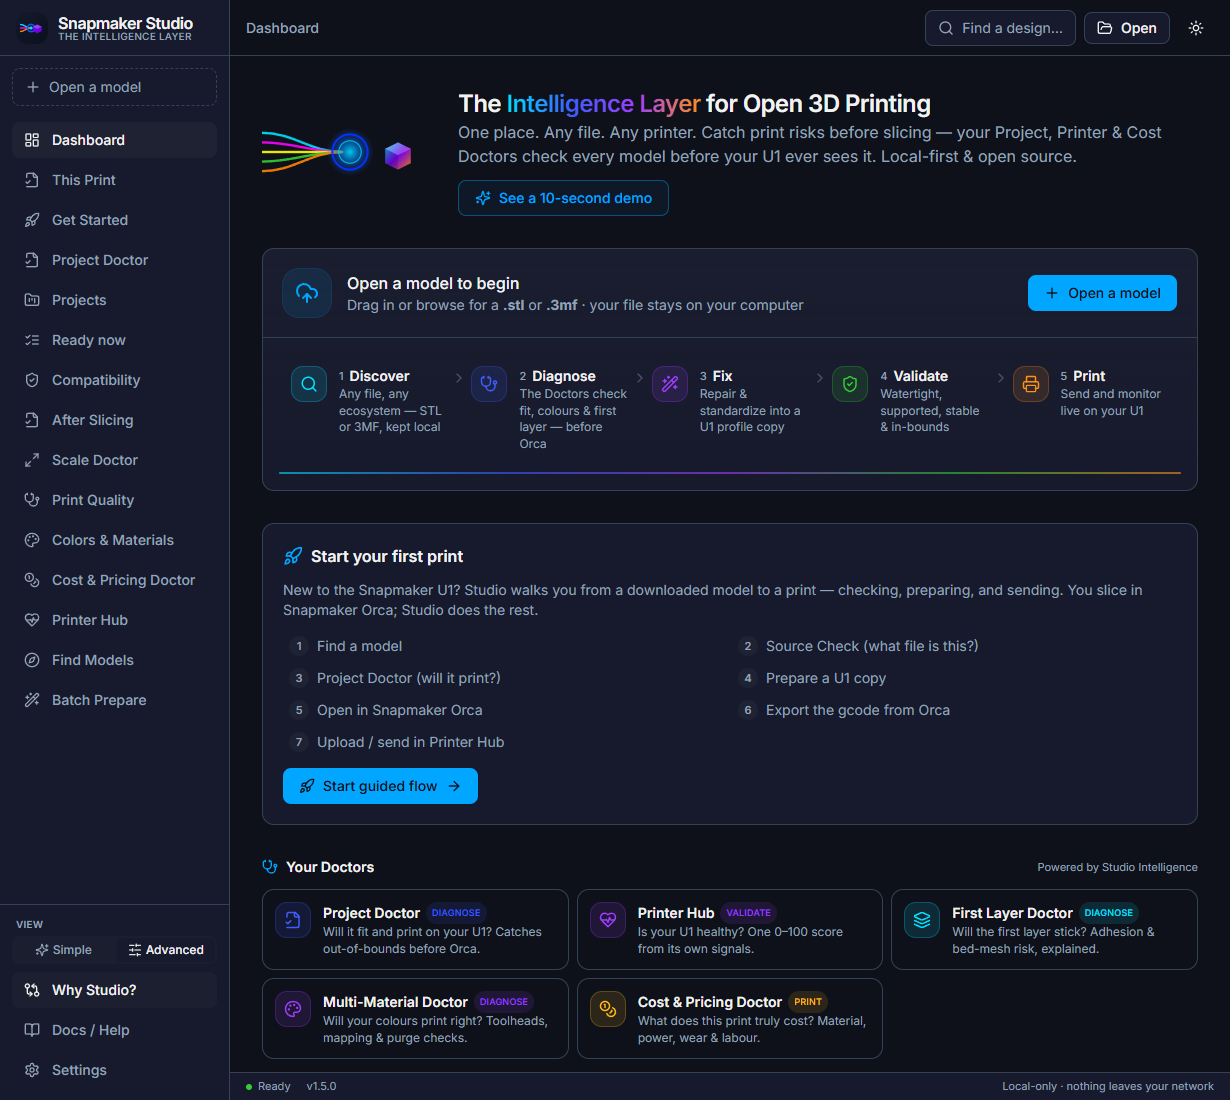
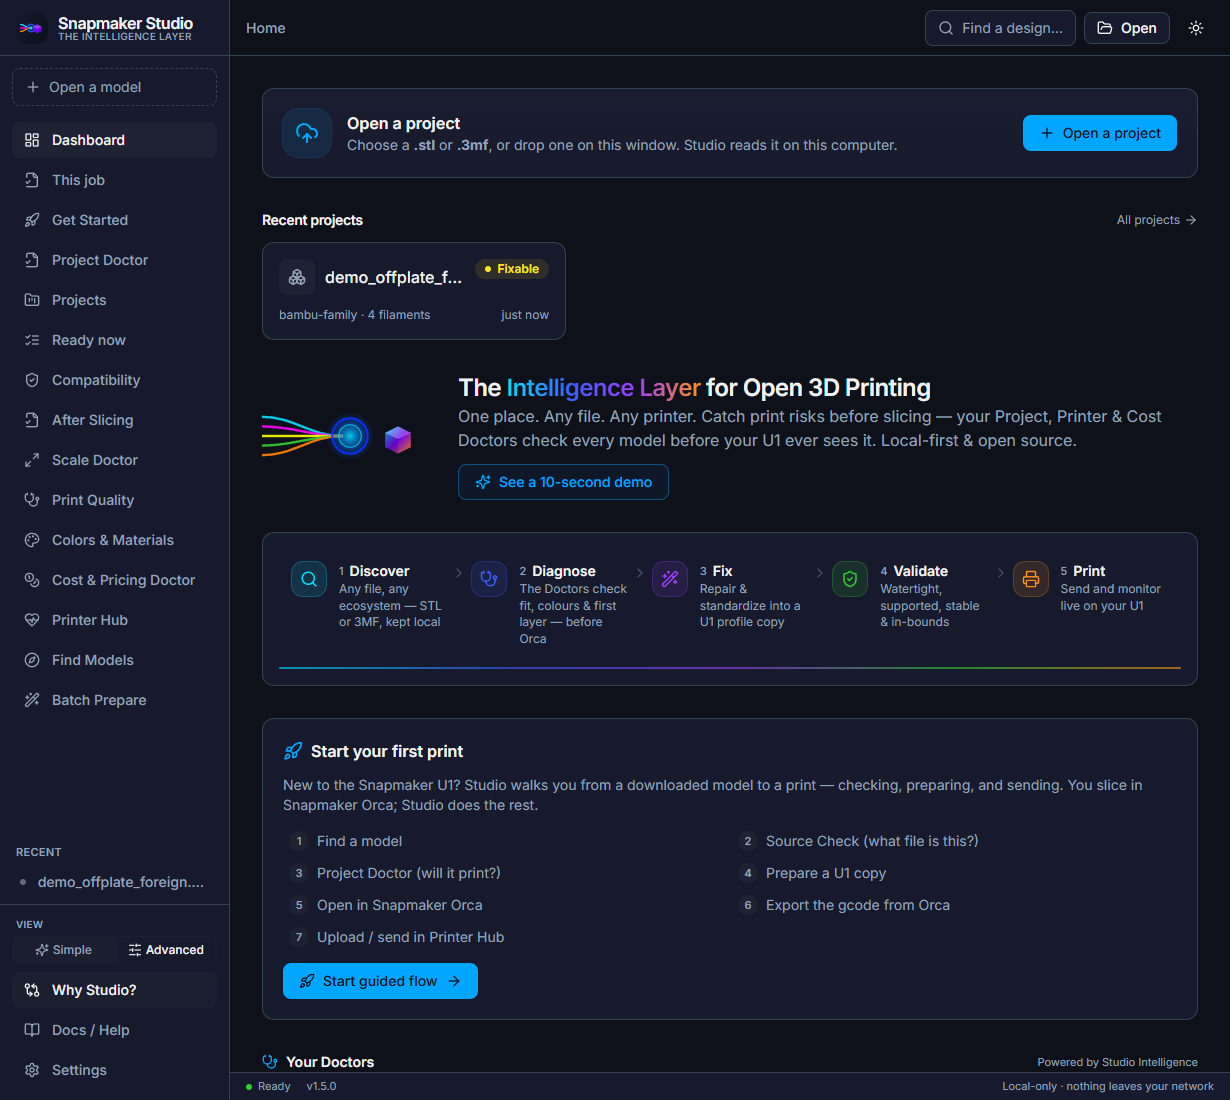
fix(desktop): light-theme contrast, interaction/test gaps, local guide labels
- Light tokens: primary/accent/convertible 201 100% 45%->35%, ready 34%->30%, risk 45%->38%. Dark theme and brand accent unchanged. Primary and danger buttons darken on hover in light (brightness) instead of fading; dark keeps opacity.
- Rendered contrast (computed colours, headless Edge): light text-primary 4.73, text-ready 4.68, text-risk 4.75, primary button 5.06 default / 4.77 hover.
- Check again is disabled while a preview is loading, as for convert (shared request generation).
- Drawer "Open a model" closes the drawer and focuses the page (file chosen or picker cancelled).
- Tests: Cockpit pins the unvalidated card and absence of "Nothing prepared yet."; the same-route recent test now starts on /workspace and asserts the path is unchanged; drawer open-file and preview-retry tests.
- Local guide only: "This print" -> "This job", Home action "Open a project"; retook home, this-print-top, nav-advanced, job-other-printer (taller capture heights for the longer pages). Not published.

Verified: tsc clean; vitest 1025 pass / 0 fail; build ok; independence guard 0 violations; guide check 49/49.

diff --git a/desktop/src/components/shell/AppShell.test.tsx b/desktop/src/components/shell/AppShell.test.tsx
@@ -1,7 +1,7 @@
 // @vitest-environment jsdom
 import React from "react";
 import { act, cleanup, fireEvent, render, screen, within } from "@testing-library/react";
-import { MemoryRouter, Route, Routes, useNavigate } from "react-router-dom";
+import { MemoryRouter, Route, Routes, useLocation, useNavigate } from "react-router-dom";
 import { QueryClient, QueryClientProvider } from "@tanstack/react-query";
 import { afterEach, describe, expect, it, vi } from "vitest";
 
@@ -9,7 +9,8 @@ vi.mock("@tauri-apps/api/webview", () => ({ getCurrentWebview: () => { throw new
 vi.mock("@tauri-apps/api/core", () => ({ invoke: vi.fn().mockResolvedValue({ port: 1, token: "t" }) }));
 vi.mock("@/api", () => ({ library: vi.fn().mockResolvedValue([]), health: vi.fn().mockResolvedValue({}) }));
 import * as api from "@/api";
-vi.mock("@/hooks/useOpenFile", () => ({ useOpenFile: () => vi.fn() }));
+const openFile = vi.hoisted(() => vi.fn());
+vi.mock("@/hooks/useOpenFile", () => ({ useOpenFile: () => openFile }));
 declare const __APP_VERSION__: string;
 (globalThis as any).__APP_VERSION__ = "test";
 
@@ -17,12 +18,13 @@ import { AppShell } from "@/components/shell/AppShell";
 
 function GoThis() {
   const nav = useNavigate();
-  return <button onClick={() => nav("/this-print")}>go</button>;
+  const { pathname } = useLocation();
+  return <><button onClick={() => nav("/this-print")}>go</button><output data-testid="path">{pathname}</output></>;
 }
 
-const mount = () => render(
+const mount = (start = "/") => render(
   <QueryClientProvider client={new QueryClient()}>
-    <MemoryRouter initialEntries={["/"]}>
+    <MemoryRouter initialEntries={[start]}>
       <Routes><Route element={<AppShell />}><Route path="*" element={<GoThis />} /></Route></Routes>
     </MemoryRouter>
   </QueryClientProvider>,
@@ -94,13 +96,28 @@ describe("narrow navigation", () => {
 
   it("choosing a recent project closes the drawer and focuses the page, even when the route does not change", async () => {
     vi.mocked(api.library).mockResolvedValue([{ id: 1, name: "Bracket.3mf", source_path: "C:\w\Bracket.3mf" }] as any);
-    mount();
+    mount("/workspace");
     await act(async () => {});
     act(() => { fireEvent.click(screen.getByRole("button", { name: "Menu" })); });
     await act(async () => {});
     const recent = within(screen.getByRole("dialog")).getByRole("button", { name: "Bracket.3mf" });
     act(() => { fireEvent.click(recent); });
-    // the test route table has no /workspace page, so this also proves it works without a pathname change
+    // Started on /workspace and the recent opens /workspace: the pathname does not change.
+    expect(screen.getByTestId("path").textContent).toBe("/workspace");
+    expect(screen.queryByRole("dialog")).toBeNull();
+    expect(document.activeElement).toBe(screen.getByRole("main"));
+  });
+
+  it.each([
+    ["a file is chosen", () => Promise.resolve()],
+    ["the picker is cancelled", () => Promise.resolve(undefined)],
+  ])("Open a model in the drawer closes it and focuses the page when %s", async (_label, impl) => {
+    openFile.mockReset(); openFile.mockImplementation(impl);
+    mount();
+    act(() => { fireEvent.click(screen.getByRole("button", { name: "Menu" })); });
+    act(() => { fireEvent.click(within(screen.getByRole("dialog")).getByRole("button", { name: /Open a model/ })); });
+    await act(async () => {});
+    expect(openFile).toHaveBeenCalledTimes(1);
     expect(screen.queryByRole("dialog")).toBeNull();
     expect(document.activeElement).toBe(screen.getByRole("main"));
   });

diff --git a/desktop/src/routes/Cockpit.test.tsx b/desktop/src/routes/Cockpit.test.tsx
@@ -1,6 +1,6 @@
 // @vitest-environment jsdom
 import React from "react";
-import { cleanup, render, screen } from "@testing-library/react";
+import { cleanup, render, screen, within } from "@testing-library/react";
 import { MemoryRouter } from "react-router-dom";
 import { afterEach, beforeEach, describe, expect, it, vi } from "vitest";
 
@@ -60,6 +60,23 @@ describe("This job", () => {
     useSession.setState({ convert: convert(data) });
     view();
     expect(screen.queryByTestId("handoff")).toBeNull();
+  });
+
+  it("a written but unvalidated copy is named as such, never as nothing prepared", () => {
+    useSession.setState({ convert: convert({ validated_ok: false, blocked: false, output_path: "C:\work\p_U1.3mf", output_name: "p_U1.3mf" }) });
+    view();
+    const stage = screen.getByRole("region", { name: "2. Prepared" });
+    expect(within(stage).getByText(/A copy was written, but its check found issues./)).toBeTruthy();
+    expect(within(stage).getByText(/not offered to Snapmaker Orca/)).toBeTruthy();
+    expect(within(stage).queryByText("Nothing prepared yet.")).toBeNull();
+    expect(screen.getByRole("status").textContent).toContain("A copy was written, but its check found issues");
+  });
+
+  it("a refused prepare is not shown as an unvalidated copy", () => {
+    useSession.setState({ convert: convert({ validated_ok: true, blocked: true, output_path: null }) });
+    view();
+    const stage = screen.getByRole("region", { name: "2. Prepared" });
+    expect(within(stage).queryByText(/A copy was written/)).toBeNull();
   });
 
   it("keeps the stages and the full-checks route reachable, once", () => {

diff --git a/desktop/src/components/JobHeader.test.tsx b/desktop/src/components/JobHeader.test.tsx
@@ -21,7 +21,7 @@ const steps = () => within(screen.getByRole("list", { name: "Job progress" })).g
 
 beforeEach(() => {
   runDoctor.mockReset();
-  useSession.setState({ file: FILE as any, doctor: doctorDone() as any, convert: idle as any, runDoctor: runDoctor as any });
+  useSession.setState({ file: FILE as any, doctor: doctorDone() as any, convert: idle as any, preview: { status: "idle", data: null, error: null } as any, runDoctor: runDoctor as any });
   useSliced.setState({ path: null, name: null });
 });
 afterEach(cleanup);
@@ -87,6 +87,12 @@ describe("the job header", () => {
 
   it("does not offer a retry that would drop an in-flight prepare", () => {
     useSession.setState({ doctor: { status: "error", data: null, error: "x" } as any, convert: { status: "loading", data: null, error: null } as any });
+    view();
+    expect((screen.getByRole("button", { name: "Check again" }) as HTMLButtonElement).disabled).toBe(true);
+  });
+
+  it("does not offer a retry that would drop an in-flight preview", () => {
+    useSession.setState({ doctor: { status: "error", data: null, error: "x" } as any, preview: { status: "loading", data: null, error: null } as any });
     view();
     expect((screen.getByRole("button", { name: "Check again" }) as HTMLButtonElement).disabled).toBe(true);
   });

diff --git a/desktop/src/components/JobHeader.tsx b/desktop/src/components/JobHeader.tsx
@@ -40,6 +40,8 @@ export function JobHeader() {
   const project = useSession((s) => s.file);
   const runDoctor = useSession((s) => s.runDoctor);
   const facts = useJobFacts();
+  // A re-check bumps the shared request generation, so it would drop an in-flight prepare or preview.
+  const previewLoading = useSession((s) => s.preview.status === "loading");
   if (!project) return null;
 
   const steps = deriveSteps(facts);
@@ -103,7 +105,7 @@ export function JobHeader() {
           <Button size="sm" onClick={() => goTo(next.action!.target!)}>{next.action.label}</Button>
         )}
         {next.action?.kind === "retry" && (
-          <Button size="sm" disabled={facts.convert.status === "loading"} onClick={() => void runDoctor()}>{next.action.label}</Button>
+          <Button size="sm" disabled={facts.convert.status === "loading" || previewLoading} onClick={() => void runDoctor()}>{next.action.label}</Button>
         )}
       </div>
     </section>

diff --git a/desktop/src/index.css b/desktop/src/index.css
@@ -22,14 +22,14 @@
     --border: 220 13% 91%;
     --input: 220 13% 91%;
     --ring: 201 100% 45%;
-    --primary: 201 100% 45%;
+    --primary: 201 100% 35%;
     --primary-foreground: 0 0% 100%;
-    --accent: 201 100% 45%;
+    --accent: 201 100% 35%;
     --accent-foreground: 0 0% 100%;
-    --ready: 120 61% 34%;
+    --ready: 120 61% 30%;
     --repairable: 41 100% 37%;
-    --convertible: 201 100% 45%;
-    --risk: 302 90% 45%;
+    --convertible: 201 100% 35%;
+    --risk: 302 90% 38%;
 
     /* Workflow stage colours — the spectrum flow Input → Diagnose → Transform →
        Validate → Output (mark reads left→right: ribbons → portal → cube). */

diff --git a/desktop/src/components/shell/Sidebar.tsx b/desktop/src/components/shell/Sidebar.tsx
@@ -47,7 +47,7 @@ export function Sidebar({ className, id, onNavigate }: { className?: string; id?
         </div>
       </div>
 
-      <button onClick={openFile} className="mx-3 mt-3 mb-1 flex items-center gap-2 rounded-md border border-dashed border-border px-3 py-2 text-sm text-muted-foreground hover:bg-muted/60 hover:text-foreground">
+      <button data-closes-menu onClick={openFile} className="mx-3 mt-3 mb-1 flex items-center gap-2 rounded-md border border-dashed border-border px-3 py-2 text-sm text-muted-foreground hover:bg-muted/60 hover:text-foreground">
         <Plus className="h-4 w-4" /> Open a model
       </button>
 

diff --git a/desktop/src/components/ui/button.tsx b/desktop/src/components/ui/button.tsx
@@ -8,10 +8,10 @@ const buttonVariants = cva(
   {
     variants: {
       variant: {
-        primary: "bg-primary text-primary-foreground hover:opacity-90 shadow-sm",
+        primary: "bg-primary text-primary-foreground hover:brightness-90 dark:hover:brightness-100 dark:hover:opacity-90 shadow-sm",
         secondary: "border border-border bg-card hover:bg-muted",
         ghost: "hover:bg-muted",
-        danger: "bg-risk text-white hover:opacity-90",
+        danger: "bg-risk text-white hover:brightness-90 dark:hover:brightness-100 dark:hover:opacity-90",
       },
       size: {
         sm: "h-8 px-3",
